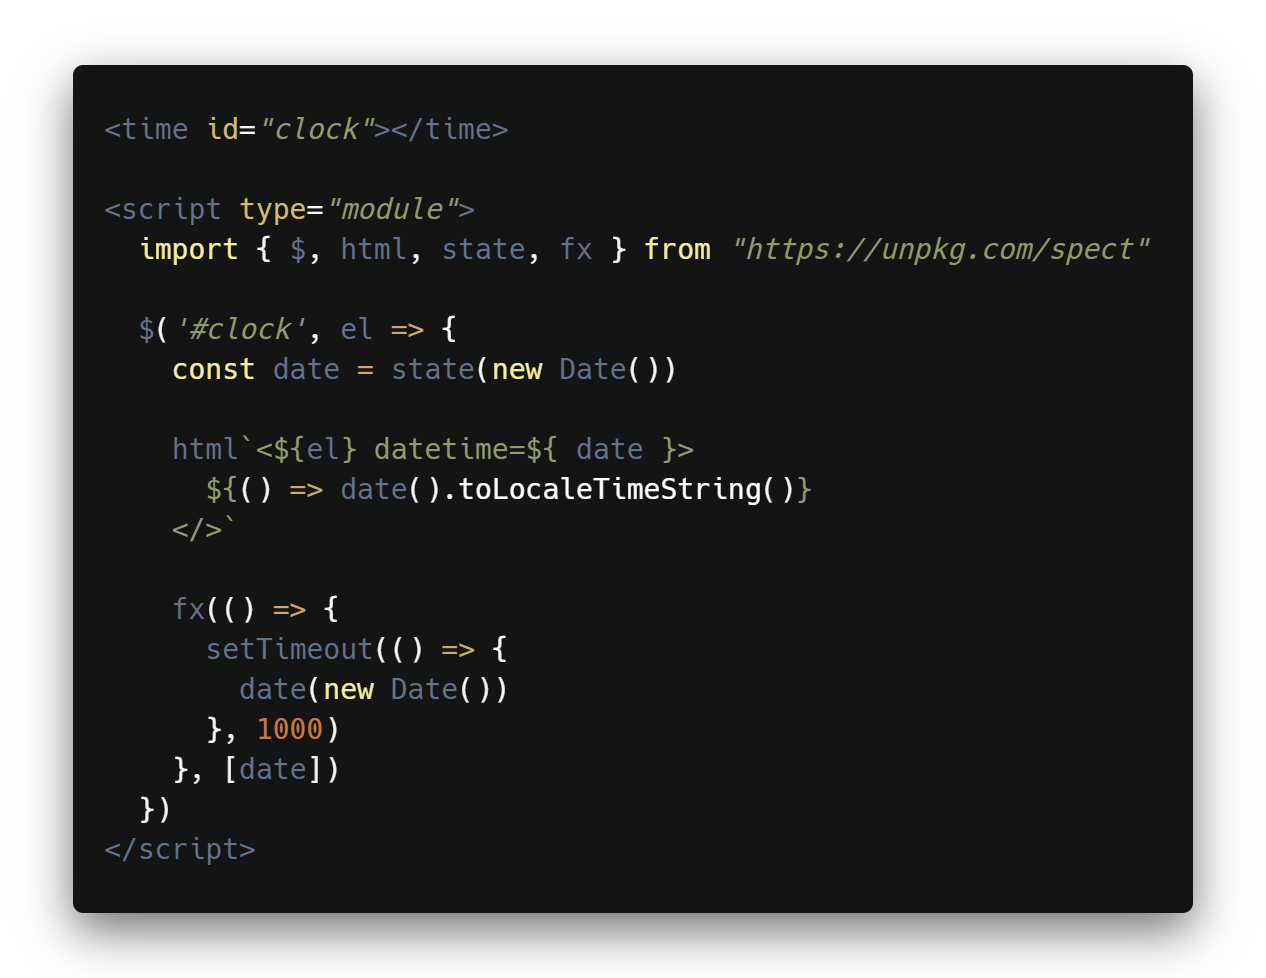
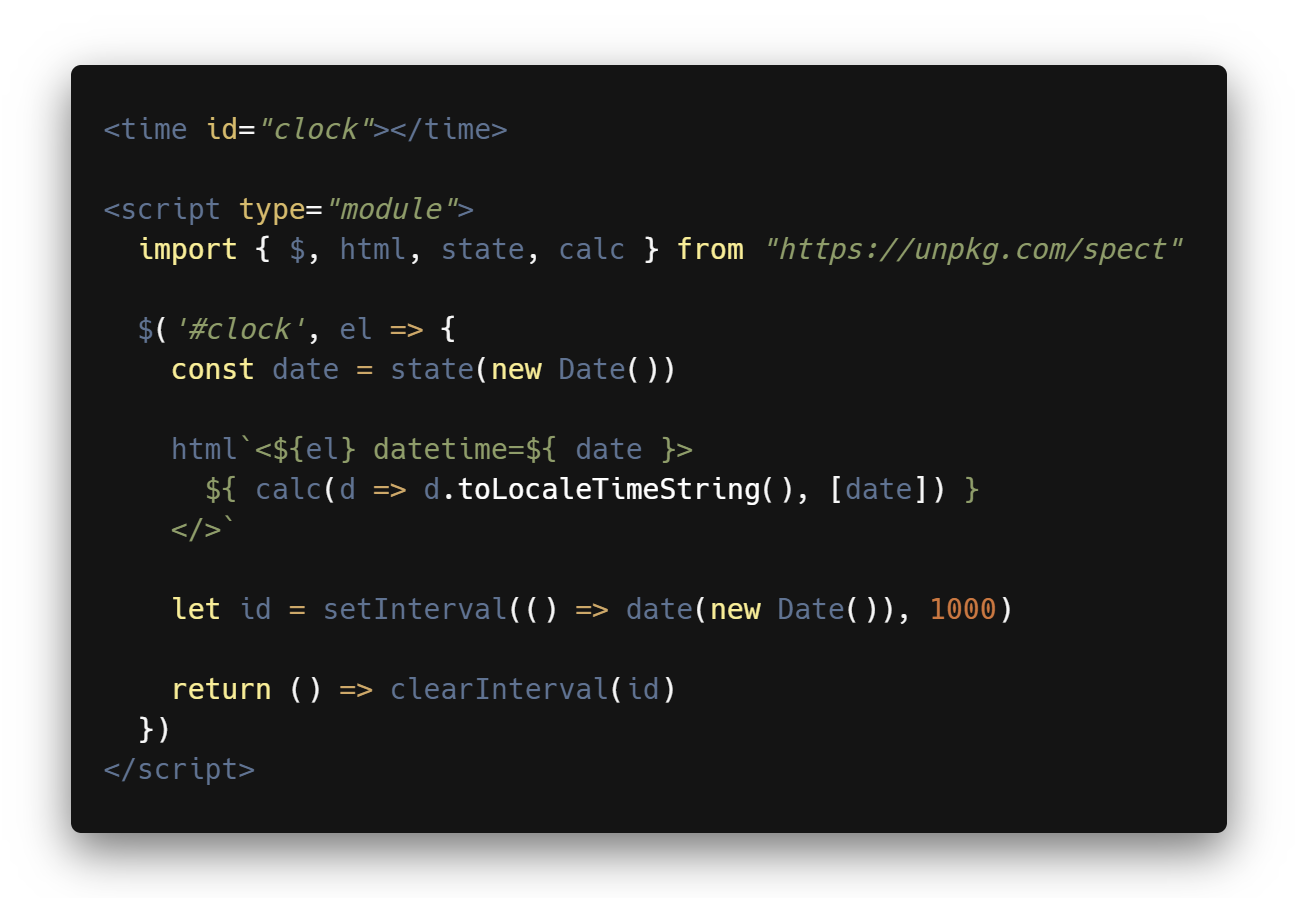
Update example, remove map

Changed region(s): [[0.0308, 0.0624, 0.955, 0.9354], [0.0924, 0.1871, 0.8934, 0.5612], [0.7085, 0.6548, 0.7701, 0.686]]

diff --git a/examples/time.html b/examples/time.html
@@ -1,18 +1,17 @@
-<time id="current-time"></time>
+<time id="clock"></time>
 
 <script type="module">
-  // import { $, fx, state } from "https://unpkg.com/spect@latest/index.js?module"
-  import { $, fx, state } from "../index.js"
+  import { $, html, state, calc } from "https://unpkg.com/spect"
 
-  $('#current-time', el => {
+  $('#clock', el => {
     const date = state(new Date())
 
-    fx(() => {
-      el.innerHTML = date().toLocaleTimeString()
-      el.setAttribute('datetime', date().toISOString())
+    html`<${el} datetime=${ date }>
+      ${ calc(d => d.toLocaleTimeString(), [date]) }
+    </>`
 
-      setTimeout(() => date(new Date()), 1000)
-    }, [date])
+    let id = setInterval(() => date(new Date()), 1000)
+
+    return () => clearInterval(id)
   })
 </script>
-

diff --git a/src/bus.js b/src/bus.js
@@ -78,12 +78,6 @@ export default function bus(get, set, teardown) {
     },
     then(y, n) {
       return promise.then(y, n)
-    },
-    map(fn) {
-      let curr
-      let mapped = bus(() => curr, null)
-      channel[_observable]().subscribe(bus)
-      return mapped
     }
   })
 

diff --git a/readme.md b/readme.md
@@ -12,7 +12,7 @@
   <img src="https://img.shields.io/badge/stability-unstable-yellowgreen"/>
 </p>
 
-<p align="center"><img src="/preview.png" width="633"/></p>
+<p align="center"><img src="/preview.png" width="649"/></p>
 <p align="center">▶ <a href="https://codepen.io/dyv/pen/oNXXZEb" target="_blank"><strong>Run</strong></a></p>
 <br/>
 
@@ -20,20 +20,18 @@
 <time id="clock"></time>
 
 <script type="module">
-  import { $, html, state } from "https://unpkg.com/spect"
+  import { $, html, state, calc } from "https://unpkg.com/spect"
 
   $('#clock', el => {
     const date = state(new Date())
 
     html`<${el} datetime=${ date }>
-      ${ date.toLocaleTimeString() }
+      ${ calc(d => d.toLocaleTimeString(), [date]) }
     </>`
 
-    let interval = setInterval(() => {
-      date(new Date())
-    }, 1000)
+    let id = setInterval(() => date(new Date()), 1000)
 
-    return () => clearInterval(interval)
+    return () => clearInterval(id)
   })
 </script>
 -->
